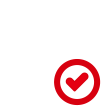
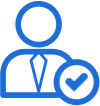
update tbus theme

diff --git a/mobile/source/styles/main.less b/mobile/source/styles/main.less
@@ -228,19 +228,17 @@ a {
                     .icon {
                         display: block;
                         margin: 0 auto 10px;
-                        border: 1px solid @color-theme-main;
-                        border-radius: 10px;
                         width: 114px/2;
                         height: 114px/2;
 
                         &-bank-card {
                             background: url("@{path-image}/bank-card-icon.png") no-repeat center center;
-                            background-size: 70px/2 48px/2;
+                            background-size: cover;
                         }
 
                         &-payment-password {
                             background: url("@{path-image}/payment-password-icon.png") no-repeat center center;
-                            background-size: 44px/2 60px/2;
+                            background-size: cover;
                         }
                     }
 
@@ -258,7 +256,7 @@ a {
                             top: 27px;
                             left: 0;
                             width: 40px;
-                            border-top: 2px dotted #E18691;
+                            border-top: 2px dotted #1D6ED7;
                         }
                     }
                 }
@@ -2556,14 +2554,14 @@ a {
                 &:nth-child(2) {
                     .name:after,
                     .value:before {
-                        background-color: #E60012;
+                        background-color: @color-theme-main;
                     }
                 }
 
                 &:nth-child(3) {
                     .name:before,
                     .value:before {
-                        background-color: #E60012;
+                        background-color: @color-theme-main;
                     }
                 }
             }
@@ -2630,7 +2628,7 @@ a {
             }
 
             &-title {
-                border-left: 1px solid #D7000F;
+                border-left: 1px solid @color-theme-main;
                 padding-left: 5px;
                 font-size: 14px;
                 color: @color-theme-main;

diff --git a/mobile/source/components/router/dashboard/subhome.tmpl.html b/mobile/source/components/router/dashboard/subhome.tmpl.html
@@ -25,7 +25,7 @@
         </div>
 
         <div class="btns">
-            <btn class="btn btn-theme btn-xs"
+            <btn class="btn btn-plain btn-xs"
                  ng-click="self.$location.path('dashboard/recharge')"
             >充值</btn>
             <btn class="btn btn-plain btn-xs"

diff --git a/mobile/source/components/router/dashboard/home.tmpl.html b/mobile/source/components/router/dashboard/home.tmpl.html
@@ -39,7 +39,7 @@
         </div>
 
         <div class="btns">
-            <btn class="btn btn-theme btn-xs"
+            <btn class="btn btn-plain btn-xs"
                  ng-click="
                      self.$location.path('dashboard/recharge');
                      $event.stopPropagation();
